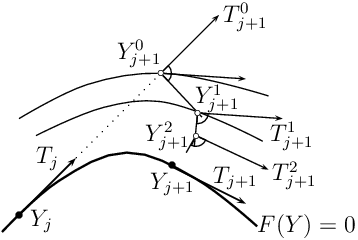
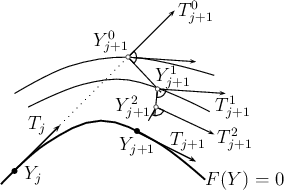
completing documentation of numerical continuation

diff --git a/src/getfem/getfem_continuation.h b/src/getfem/getfem_continuation.h
@@ -33,7 +33,7 @@
     @author Tomas Ligursky <tomas.ligursky@gmail.com>
     @author Yves Renard <Yves.Renard@insa-lyon.fr>
     @date October 17, 2011.
-    @brief (approximate) Moore-Penrose (also called Gauss-Newton) continuation method.
+    @brief inexact Moore-Penrose continuation method.
 */
 #ifndef GETFEM_CONTINUATION_H__
 #define GETFEM_CONTINUATION_H__

diff --git a/doc/sphinx/source/userdoc/model_continuation.rst b/doc/sphinx/source/userdoc/model_continuation.rst
@@ -13,7 +13,7 @@
 Numerical continuation and bifurcation
 --------------------------------------
 
-Let an algebraic problem coming from a discretization of a FEM-model can be
+Let an algebraic problem coming from discretisation of a FEM-model can be
 written in the form
 
 .. math::
@@ -26,20 +26,18 @@ parameter :math:`\lambda` so that :math:`F(U) = F(U, \lambda)`.
 Numerical continuation
 ++++++++++++++++++++++
 
-A numerical continuation method traces solution branches of the system
+Methods of numerical continuation serve for tracing solutions of the system
 
 .. math::
 
-   F(U, \lambda) = 0, \quad F:\mathbb{R}^{N} \times \mathbb{R} \to \mathbb{R}^{N}.
+   F(U, \lambda) = 0, \quad F\colon \mathbb{R}^{N} \times \mathbb{R} \to \mathbb{R}^{N}.
 
-In |gf|, the (approximate) *Moore-Penrose* (also called *Gauss-Newton*)
-continuation is implemented (see, for instance, [dh-go-ku2003]_).
-
-Since this method does not make an explicit difference between the state
-variable :math:`U` and the parameter :math:`\lambda`, we shall denote
-:math:`Y := (U, \lambda)` for brevity. Nevertheless, to avoid bad scaling of the
-values of the continuation parameter, we shall use the following weighted scalar
-product and norm:
+In |gf|, a continuation technique for piecewise :math:`C^{1}` (:math:`PC^{1}`)
+solution curves is implemented (see [li-re]_ for more details). Since it does
+not make an explicit difference between the state variable :math:`U` and the
+parameter :math:`\lambda`, we shall denote :math:`Y := (U, \lambda)` for
+brevity. Nevertheless, to avoid bad scaling when calculating tangents, for
+example, we shall use the following weighted scalar product and norm:
 
 .. math::
 
@@ -47,25 +45,28 @@ product and norm:
 
 Here, :math:`\kappa` should be chosen so that
 :math:`\kappa \langle U, \tilde{U} \rangle` is proportional to the scalar
-product of the corresponding space variables in :math:`L^{2}`. One can take, for
-example, :math:`\kappa = h^{d}`, where :math:`h` is the mesh size and :math:`d`
-stands for the dimension of the problem. Alternatively, :math:`\kappa` can be
-chosen as the reciprocal of the total number of degrees of freedom.
+product of the corresponding space variables, usually in :math:`L^{2}`. One can
+take, for example, :math:`\kappa = h^{d}`, where :math:`h` is the mesh size and
+:math:`d` stands for the dimension of the underlying problem. Alternatively,
+:math:`\kappa` can be chosen as :math:`1/N` for simplicity.
 
-The Moore-Penrose continuation consists in computing a sequence of consecutive
-points :math:`Y_{j}` on a chosen solution branch and the corresponding unit
-tangent vectors :math:`T_{j}`:
+The idea of the continuation strategy is to continue smooth pieces of solution
+curves by a classical predictor-corrector method and to join the smooth pieces
+continuously.
+
+The particular predictor-corrector method employed is a slight modification of
+the *inexact Moore-Penrose* continuation implemented in MATCONT [dh-go-ku2003]_.
+It computes a sequence of consecutive points :math:`Y_{j}` lying approximately
+on a solution curve and a sequence of the corresponding unit tangent vectors
+:math:`T_{j}`:
 
 .. math::
 
-   F(Y_{j}) = 0,\quad \nabla F(Y_{j}) T_{j} = 0,\quad \lVert T_{j} \rVert_{w} = 1,\quad j = 0, 1,\dotsc.
+   \lVert F(Y_{j}) \rVert \leq \varepsilon,\quad F'(Y_{j}; T_{j}) = 0,\quad \lVert T_{j} \rVert_{w} = 1,\quad j = 0, 1,\dotsc.
 
-To describe the technique, let us suppose that we have a couple
-:math:`(Y_{j}, T_{j})` satisfying the relations above at our disposal. The next
-couple is calculated in two steps -- *prediction* and *correction*.
-
-In the prediction, an initial approximation of :math:`(Y_{j+1}, T_{j+1})` is
-given by
+To describe it, let us suppose that we have a couple :math:`(Y_{j}, T_{j})`
+satisfying the relations above at our disposal. In the *prediction*, an initial
+approximation of :math:`(Y_{j+1}, T_{j+1})` is taken as
 
 .. math::
 
@@ -73,7 +74,7 @@ given by
 
 where :math:`h_{j}` is a step size. Its choice will be discussed later on.
 
-In the correction, one computes a sequence
+In the *correction*, one computes a sequence
 :math:`\{(Y_{j+1}^{l}, T_{j+1}^{l})\}`, where
 :math:`T_{j+1}^{l} := \tilde{T}_{j+1}^{l} / \lVert \tilde{T}_{j+1}^{l} \rVert_{w}`
 and the couple :math:`(Y_{j+1}^{l}, \tilde{T}_{j+1}^{l})` is given by one
@@ -82,42 +83,96 @@ with
 
 .. math::
 
-   F^{l}(Y, T) := \begin{pmatrix}F(Y)\\ (T_{j+1}^{l-1})^{\top}(Y - Y_{j+1}^{l-1})\\ \nabla F(Y_{j+1}^{l-1})T\\ \langle T_{j+1}^{l-1}, T \rangle_{w} - \langle T_{j+1}^{l-1}, T_{j+1}^{l-1} \rangle_{w}\end{pmatrix}.
+   F^{l}(Y, T) := \begin{pmatrix}F(Y)\\ (T_{j+1}^{l-1})^{\top}(Y - Y_{j+1}^{l-1})\\ \nabla F(Y_{j+1}^{l-1})T\\ \langle T_{j+1}^{l-1}, T \rangle_{w} - \langle T_{j+1}^{l-1}, T_{j+1}^{l-1} \rangle_{w}\end{pmatrix}
+
+and the initial approximation :math:`(Y_{j+1}^{l-1}, T_{j+1}^{l-1})`. Due to
+potential non-differentiability of :math:`F`, a piecewise-smooth variant of the
+Newton method is used (7.2.14 Algorithm in [fa-pa2003]_).
 
 .. _ud_fig_correction:
 .. figure:: images/getfemusercorrection.png
    :align: center
 
-   Correction
+   Correction.
 
-A new couple :math:`(Y_{j+1}, T_{j+1})` is set to
-:math:`(Y_{j+1}^{l}, T_{j+1}^{l})` iff
+A couple :math:`(Y_{j+1}^{l}, T_{j+1}^{l})` is accepted for
+:math:`(Y_{j+1}, T_{j+1})` if
 :math:`\lVert F(Y_{j+1}^{l})\rVert \leq \varepsilon`,
 :math:`\lVert Y_{j+1}^{l} - Y_{j+1}^{l-1}\rVert_{w} \leq \varepsilon'`, and the
 cosine of the angle between :math:`T_{j+1}^{l}` and :math:`T_{j}` is greater or
-equal to :math:`c_{\mathrm{min}}`. Let us note that the partial gradient
-:math:`\nabla_{U} F` is assembled analytically whereas
-:math:`\nabla_{\lambda} F` is evaluated by forward finite differences with an
-increment equal to 1e-8. 
+equal to :math:`c_{\mathrm{min}}`. Let us note that the partial gradient of
+:math:`F` (or of one of its selection functions in the case of
+non-differentiability) with respect to :math:`U` is assembled analytically
+whereas the partial gradient with respect to :math:`\lambda` is evaluated by
+forward finite differences with the increment equal to 1e-8.
 
-Finally, the step size :math:`h_{j+1}` in the next prediction depends on how
-this Newton correction is successful. Denoting the number of iterations needed
-by :math:`l_{\mathrm{it}}`, it is selected as
+The step size :math:`h_{j+1}` in the next prediction depends on how the Newton
+correction has been successful. Denoting the number of iterations needed by
+:math:`l_{\mathrm{it}}`, it is selected as
 
 .. math::
 
    h_{j+1} := \begin{cases}\max\{h_{\mathrm{dec}} h_{j}, h_{\mathrm{min}}\}& \text{if no new couple was accepted},\\ \min\{h_{\mathrm{inc}} h_{j}, h_{\mathrm{max}}\}& \text{if a new couple was accepted and } l_{\mathrm{it}} < l_{\mathrm{thr}},\\ h_{j}& \text{otherwise},\end{cases}
 
 where :math:`0 < h_{\mathrm{dec}} < 1 < h_{\mathrm{inc}}`,
-:math:`0 < l_{\mathrm{thr}}` as well as
+:math:`0 < l_{\mathrm{thr}}` and
 :math:`0 < h_{\mathrm{min}} < h_{\mathrm{max}}` are given constants. At the
 beginning, one sets :math:`h_{1} := h_{\mathrm{init}}` for some
 :math:`h_{\mathrm{min}} \leq h_{\mathrm{init}} \leq h_{\mathrm{max}}`.
 
-In |gf|, the Moore-Penrose continuation is implemented for two ways of
-parametrisation of the model:
+Now, let us suppose that we have approximated a piece of a solution curve
+corresponding to one sub-domain of smooth behaviour of :math:`F` and we want to
+recover a piece corresponding to another sub-domain of smooth behaviour. Let
+:math:`(Y_{j},T_{j})` be the last computed couple.
 
-1. The parameter :math:`\lambda` is directly a scalar datum that the model 
+.. _ud_fig_transition:
+.. figure:: images/getfemusertransition.png
+   :align: center
+
+   Transition between smooth pieces of a solution curve.
+
+To approximate the tangent to the other smooth piece, we first take a point
+:math:`Y_{j} + h T_{j}` with :math:`h` a bit greater than
+:math:`h_{\mathrm{min}}` so that this point belongs to the interior of the other
+sub-domain of smooth behaviour. Then, we find :math:`\tilde{T}` such that
+
+.. math::
+
+   \nabla F(Y_{j} + h T_{j}) \tilde{T} = 0,\quad \lVert \tilde{T} \rVert_{w} = 1
+
+and it remains to determine an appropriate direction of this vector. This can be
+done on the basis of the following observations:  First, there exists
+:math:`r \in \{\pm 1\}` such that :math:`Y_{j} - r \tilde{h} \tilde{T}` remains
+in the same sub-domain as :math:`Y_{j}` for any :math:`\tilde{h}` positive.
+This can be characterised by the fact that
+:math:`\frac{\lvert T_{-}^{\top} \tilde{T}\rvert}{\lVert T_{-} \rVert \lVert \tilde{T} \rVert}`
+is significantly smaller than 1 for :math:`T_{-}` with
+:math:`\nabla F(Y_{j} - r \tilde{h} \tilde{T}) T_{-} = 0`. Second,
+:math:`Y_{j} + r \tilde{h} \tilde{T}` appears in the other sub-domain for
+:math:`\tilde{h}` larger than some positive threshold and for such values,
+:math:`\frac{\lvert T_{+}^{\top} \tilde{T}\rvert}{\lVert T_{+} \rVert \lVert \tilde{T} \rVert}`
+is close to 1 for :math:`T_{+}` with
+:math:`\nabla F(Y_{j} + r \tilde{h} \tilde{T}) T_{+} = 0`.
+
+This suggests the following procedure for selecting the desired direction of
+:math:`\tilde{T}`: Increase the values of :math:`\tilde{h}` successively from
+:math:`h_{\mathrm{min}}` and when you arrive at :math:`\tilde{h}` and
+:math:`r \in \{\pm 1\}` such that
+
+.. math::
+
+   \frac{\lvert T^{\top} \tilde{T}\rvert}{\lVert T \rVert \lVert \tilde{T} \rVert} \approx 1\quad \text{if}\ \nabla F(Y_{j} + r \tilde{h} \tilde{T}) T = 0,
+
+take :math:`r \tilde{T}` as an approximation of the tangent to the other smooth
+piece.
+
+After finding a new tangent, say :math:`\tilde{T}_{j}`, we restart the
+predictor-corrector with :math:`(Y_{j}, \tilde{T}_{j})`.
+
+In |gf|, the continuation is implemented for two ways of parametrisation of the
+model:
+
+1. The parameter :math:`\lambda` is directly a scalar datum that the model
    depends on.
 
 2. The model is parametrised by the scalar parameter :math:`\lambda` *via* a
@@ -194,15 +249,15 @@ has been performed successfully and a point on the new branch has been
 recovered, one can proceed with the usual predictor-corrector steps to trace
 this branch.
 
-Approximation of solution branches of a model
+Approximation of solution curves of a model
 +++++++++++++++++++++++++++++++++++++++++++++
 
 The numerical continuation is defined in ``getfem/getfem_continuation.h``. In
-order to use it, one has to do the initialisation first::
+order to use it, one has to do the following initialisation first::
 
   getfem::cont_struct_getfem_model S(model, parameter_name[, initdata_name, finaldata_name, currentdata_name],
                            	     sfac, ls, bifurcations, h_init, h_max, h_min, h_inc, h_dec, maxit, thrit,
-				     maxres, maxdiff, mincos, maxres_solve, noisy);
+				     maxres, maxdiff, mincos, maxres_solve, noisy, non-smooth);
   getfem::init_Moore_Penrose_continuation(S, U, lambda, T_U, T_lambda, h);
 
 where ``parameter_name`` is the name of the model datum representing
@@ -213,40 +268,46 @@ process (e.g., ``getfem::default_linear_solver<getfem::model_real_sparse_matrix,
 bifurcation points have to be used. The real numbers ``h_init``, ``h_max``,
 ``h_min``, ``h_inc``, ``h_dec`` denote :math:`h_{\mathrm{init}}`,
 :math:`h_{\mathrm{max}}`, :math:`h_{\mathrm{min}}`, :math:`h_{\mathrm{inc}}`,
-and :math:`h_{\mathrm{dec}}`, the integers ``maxit`` and ``thrit`` are the
-maximum number of iterations allowed in the correction and
-:math:`l_{\mathrm{thr}}`, respectively,  ``maxres``, ``maxdiff``, ``mincos``,
-and ``maxres_solve`` denote :math:`\varepsilon`, :math:`\varepsilon'`,
-:math:`c_{\mathrm{min}}`, and the target residual value for the linear systems
-to be solved. Finally, the non-negative integer ``noisy`` determines how
-detailed information has to be displayed in the course of the continuation
-process (the larger value the more details). Under the optional data names
-``initdata_name`` and ``finaldata_name``, :math:`P^{0}` and :math:`P^{1}`
-should be stored in the case of the parametrisation by a vector datum,
-respectively. Under ``currentdata_name``, the values of :math:`P(\lambda)` are
-stored then, that is, actual values of the datum the model depends on. Further,
-``U`` should be a solution for the value of parameter :math:`\lambda` equal to
-``lambda`` so that :math:`Y_{0}=` (\ ``U``\ ,\ ``lambda``\ ). In accordance with
-the sign of the initial value ``T_lambda``, an initial unit tangent
-:math:`T_{0}` corresponding to :math:`Y_{0}` is computed and returned in
-``T_U``, ``T_lambda``. Moreover, ``h`` is set to the initial step size 
-``h_init``.
+and :math:`h_{\mathrm{dec}}`, the integer ``maxit`` is the maximum number of
+iterations allowed in the correction and ``thrit``, ``maxres``, ``maxdiff``,
+``mincos``, and ``maxres_solve`` denote :math:`l_{\mathrm{thr}}`,
+:math:`\varepsilon`, :math:`\varepsilon'`, :math:`c_{\mathrm{min}}`, and the
+target residual value for the linear systems to be solved, respectively. The
+non-negative integer ``noisy`` determines how detailed information has to be
+displayed in the course of the continuation process (the larger value the more
+details) and the boolean value of ``non-smooth`` determines whether only the
+predictor-corrector for smooth curves has to be used or the technique for
+searching for other smooth pieces of solution curves has to be employed as well.
+Under the optional data names ``initdata_name`` and ``finaldata_name``,
+:math:`P^{0}` and :math:`P^{1}` should be stored, respectively, in the case of
+the parametrisation by a vector datum. Under ``currentdata_name``, the values of
+:math:`P(\lambda)` are stored then, that is, actual values of the datum the
+model depends on. Further, ``U`` should be a solution for the value of parameter
+:math:`\lambda` equal to ``lambda`` so that
+:math:`Y_{0}=` (\ ``U``\ ,\ ``lambda``\ ). In accordance with the sign of the
+initial value ``T_lambda``, an initial unit tangent :math:`T_{0}` corresponding
+to :math:`Y_{0}` is computed and returned in ``T_U``, ``T_lambda``. Moreover,
+``h`` is set to the initial step size ``h_init``.
 
 Consequently, one step of the continuation can be called by ::
 
   getfem::Moore_Penrose_continuation(S, U, lambda, T_U, T_lambda, h);
 
-After each call, a new point on the solution curve and the corresponding tangent
-are returned in the variables ``U``, ``lambda`` and ``T_U``, ``T_lambda``. Step
-size to the next prediction is returned in ``h``. It the option ``bifurcations``
-has been chosen, the test function for bifurcations is evaluated at the end of
-each continuation step. Furthermore, if a bifurcation point is detected, the
-procedure for numerical bifurcation is performed and the approximation of the
-branching point as well as tangents to both bifurcating branches are saved in
-the continuation structure ``S``. From there, they can easily be recovered with
-member functions of ``S`` so that one can initialise the continuation to trace
-either of the branches next time.
+After each call, a new point on a solution curve and the corresponding tangent
+are returned in the variables ``U``, ``lambda`` and ``T_U``, ``T_lambda``. The
+step size for the next prediction is returned in ``h``. If the option
+``bifurcations`` has been chosen, the test function for bifurcations is
+evaluated at the end of each continuation step. Furthermore, if a bifurcation
+point is detected, the procedure for numerical bifurcation is performed and an
+approximation of the branching point as well as tangents to both bifurcating
+branches are saved in the continuation structure ``S``. From there, they can
+easily be recovered with member functions of ``S`` so that one can initialise
+the continuation to trace either of the branches next time.
 
-For a complete example of use, see the test programs
+Complete examples of use are shown in the test programs
 ``tests/test_continuation.cc``, ``interface/tests/matlab/demo_continuation.m``
-or ``interface/src/scilab/demos/demo_continuation.sce``.
+and ``interface/src/scilab/demos/demo_continuation.sce`` with the
+predictor-corrector only and in
+``interface/src/scilab/demos/demo_continuation_block.sce`` or
+``interface/src/scilab/demos/demo_continuation_vee.sce`` with the adaptation to
+non-smooth problems described above.

diff --git a/doc/sphinx/source/biblio.rst b/doc/sphinx/source/biblio.rst
@@ -27,33 +27,35 @@ References
    R. Cools, `An Encyclopedia of Cubature Formulas
    <http://www.cs.kuleuven.ac.be/~ines/research/ecf/ecf.html>`_, J. Complexity.
 
-
 .. [dh-to1984] G. Dhatt, G. Touzot,
    *The Finite Element Method Displayed*, J. Wiley & Sons, New York, (1984).
 
 .. [dh-go-ku2003] A. Dhooge, W. Govaerts and Y. A. Kuznetsov,
    *MATCONT: A MATLAB Package for Numerical Bifurcation Analysis of ODEs*, ACM Trans. Math. Software 31 (2003), 141-164.
 
+.. [fa-pa2003] F. Facchinei and J.-S. Pang,
+   *Finite-Dimensional Variational Inequalities and Complementarity Problems, Vol. II*, Springer Series in Operations Research, Springer, New York, 2003.
+
 .. [georg2001] K. Georg,
    *Matrix-free numerical continuation and bifurcation*, Numer. Funct. Anal. Optimization 22 (2001), 303-320.
 
-.. [LA-RE2006] P. Laborde, Y. Renard.
-   *Fixed point strategies for elastostatic frictional contact problems*, Math. Meth. Appl. Sci., 31:415-441, (2008). 
-
-
-.. [Xfem] N. Moes, J. Dolbow and T. Belytschko,
-   *A finite element method for crack growth without remeshing*, Int. J. Num. Meth. Engng. 46 (1999), 131-150.
+.. [HI-RE2010] Hild P., Renard Y.
+   *Stabilized lagrange multiplier method for the finite element approximation of contact problems in elastostatics.* Numer. Math. 15:1 (2010), 101--129.
 
 .. [KH-PO-RE2006] Khenous H., Pommier J., Renard Y.
    *Hybrid discretization of the Signorini problem with Coulomb friction, theoretical aspects and comparison of some numerical solvers*. Applied Numerical Mathematics, 56/2:163-192, 2006.
 
-
 .. [KI-OD1988] Kikuchi N., Oden J.T.,
    *Contact problems in elasticity*, SIAM, 1988.
 
+.. [LA-RE2006] P. Laborde, Y. Renard.
+   *Fixed point strategies for elastostatic frictional contact problems*, Math. Meth. Appl. Sci., 31:415-441, (2008). 
 
-.. [HI-RE2010] Hild P., Renard Y.
-   *Stabilized lagrange multiplier method for the finite element approximation of contact problems in elastostatics.* Numer. Math. 15:1 (2010), 101--129.
+.. [li-re] |ligursky|  and Y. Renard,
+   *A Continuation Problem for Computing Solutions of Discretised Evolution Problems. Part I -- Abstract Frame.* Submitted (2013). [`hal-00877716 - version 1 <http://hal.archives-ouvertes.fr/hal-00877716>`_]
+
+.. [Xfem] N. Moes, J. Dolbow and T. Belytschko,
+   *A finite element method for crack growth without remeshing*, Int. J. Num. Meth. Engng. 46 (1999), 131-150.
 
 .. [nedelec1991] J.-C. Nedelec.
    *Notions sur les techniques d'elements finis*, Ellipses, SMAI, Mathematiques & Applications no 7, (1991).
@@ -64,12 +66,10 @@ References
 .. [SCHADD] L.F. Pavarino.
    *Domain decomposition algorithms for the p-version finite element method for elliptic problems*, Luca F. Pavarino. PhD thesis, Courant Institute of Mathematical Sciences}. 1992.
 
-
 .. [remacle2002] J-F. Remacle, M. Shephard,
    *An algorithm oriented database*,  Int. J. Num. Meth. Engng. 58 (2003), 349-374.
 
-
-.. [so-se-do2004] P. Solin, K. Segeth, I. Dolezel,
+.. [so-se-do2004] |solin| , K. Segeth, |dolezel| ,
    *Higher-Order Finite Element Methods*, Chapman and Hall/CRC, Studies in advanced mathematics, 2004.
 
 .. [renard2013] Y. Renard,
@@ -77,3 +77,10 @@ References
 
 .. [ZT1989] Zienkiewicz and Taylor "The finite element method" 5th edition
     volume 3 : Fluids Dynamics, section 2.6 
+
+
+.. |dolezel| unicode:: I. U+00A0 Dole U+017E el 
+   :rtrim:
+.. |ligursky| unicode:: T. U+00A0 Ligursk U+00FD
+.. |solin| unicode:: P. U+00A0 U+0160 ol U+00ED n 
+   :rtrim:
